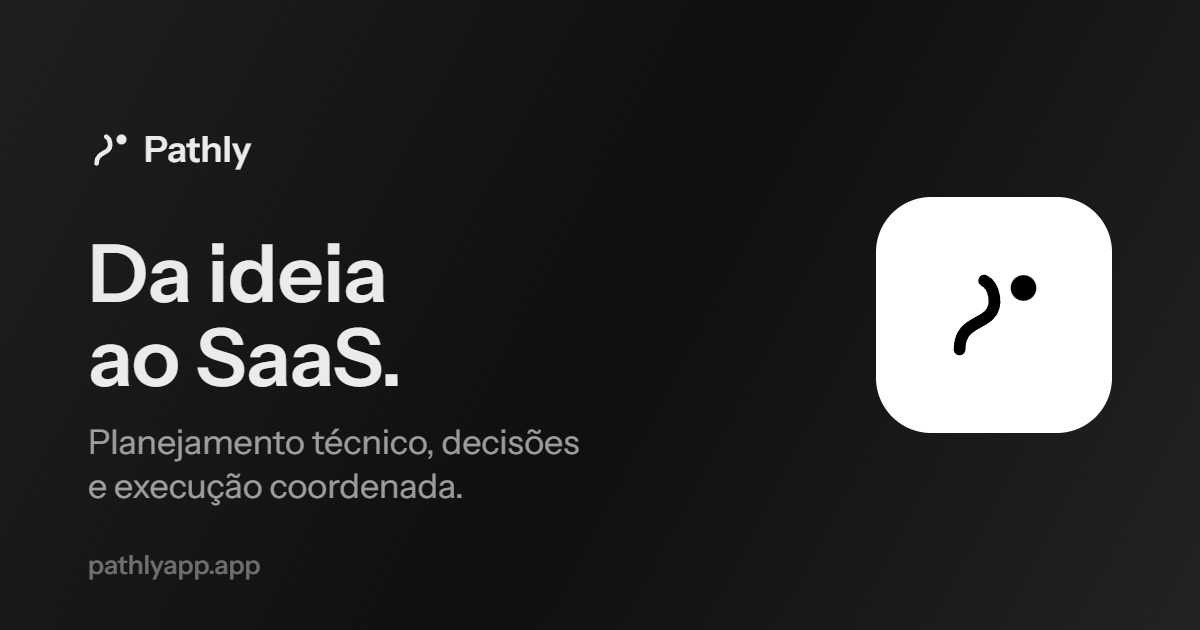
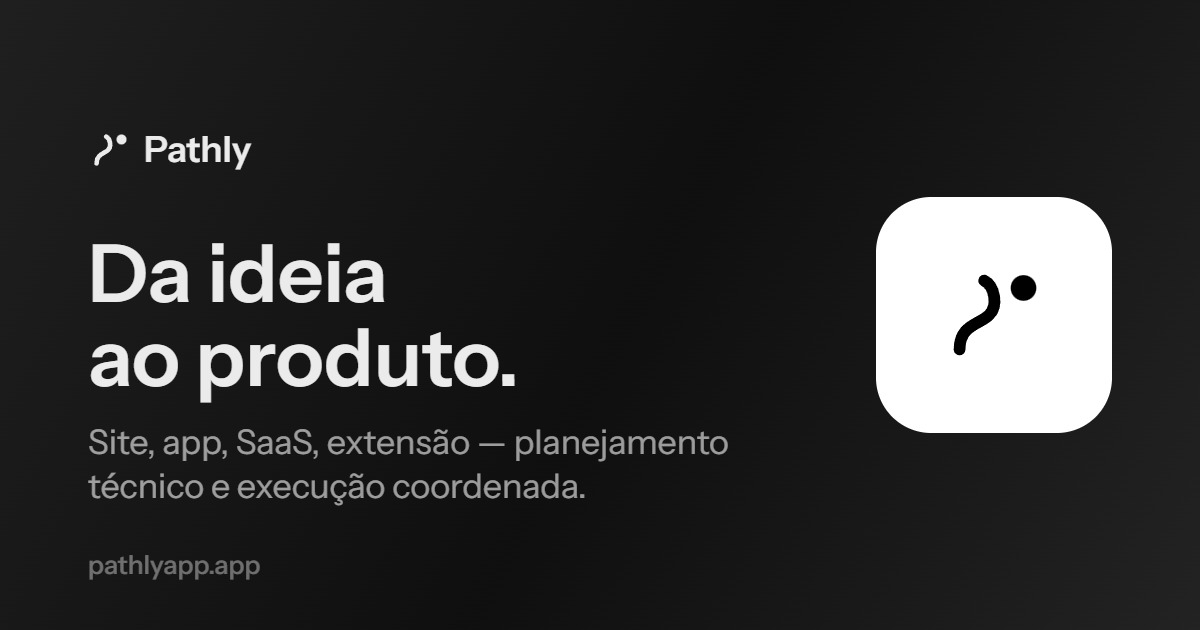
O resto dos textos, e a imagem de compartilhamento com a manchete nova
Fecha o reposicionamento: nenhuma tela diz mais que o Pathly e so para SaaS.

## Os oito que faltavam

`app.planos`, `app.blueprints`, `cadastro` (meta e subtitulo), `project-chat` (cabecalho e a
saudacao "Vamos construir este SaaS" -> "Vamos construir isto"), e dois comentarios de modulo em
`blueprint/contrato.ts` e `hub/sessao/contrato.ts` — comentario tambem e texto, e um que diz "o
Pathly entrega um SaaS" desorienta quem le o codigo daqui a seis meses.

## Onde "SaaS" FICA, de proposito

Tres lugares, e nos tres a palavra esta certa:

- `index.tsx` e `__root.tsx`: "site, app, SaaS, extensao" — ali SaaS e **uma** das opcoes da lista,
  e tirar empobreceria a frase.
- `respostas.ts`: documenta o valor antigo gravado no banco (`tipo: "saas"`) e da SaaS como
  exemplo do que e uma aplicacao web.

E `asaas` em `regras.ts` continua intocado: e o provedor de pagamento brasileiro.

## A imagem

`og.jpg` regerada com "Da ideia ao produto." e o subtitulo passando a enumerar as plataformas:
"Site, app, SaaS, extensao — planejamento tecnico e execucao coordenada."

Mesma receita da anterior: gradiente em oklch do proprio app, Instrument Sans carregada antes de
desenhar, o icone do app ancorando a direita, JPEG em 0.92. 51 KB.

Conferida lendo o arquivo **gravado**, nao o que ficou em memoria: decodifica, 1200x630,
image/jpeg. As meta tags ja apontavam para `og.jpg` e o `og:image:alt` ja tinha sido corrigido
junto com a landing.

## Verificacao
[…]

Changed region(s): [[0.1542, 0.5127, 0.4317, 0.6333], [0.0617, 0.754, 0.4933, 0.8143], [0.0617, 0.6635, 0.6167, 0.7238]]

diff --git a/src/components/pathly/project-chat.tsx b/src/components/pathly/project-chat.tsx
@@ -184,7 +184,7 @@ export function ProjectChat({
           <div className="min-w-0">
             <h1 className="truncate text-sm font-semibold">{estado.nomeProjeto || "Projeto"}</h1>
             <p className="truncate text-xs text-muted-foreground">
-              Planejamento e execução do seu SaaS
+              Planejamento e execução do seu produto
             </p>
           </div>
         </div>
@@ -226,7 +226,7 @@ export function ProjectChat({
                     className="mt-4 justify-center font-display text-2xl font-semibold"
                     stagger={0.07}
                   >
-                    Vamos construir este SaaS
+                    Vamos construir isto
                   </WordsStagger>
                   <WordsStagger
                     className="mx-auto mt-2 max-w-lg justify-center text-sm leading-relaxed text-muted-foreground"

diff --git a/src/routes/cadastro.tsx b/src/routes/cadastro.tsx
@@ -13,7 +13,7 @@ export const Route = createFileRoute("/cadastro")({
       { title: "Criar conta na Pathly" },
       {
         name: "description",
-        content: "Crie sua conta e transforme uma ideia em um SaaS planejado e executável.",
+        content: "Crie sua conta e transforme uma ideia em um produto planejado e executável.",
       },
       { property: "og:title", content: "Criar conta na Pathly" },
       {
@@ -79,7 +79,7 @@ function SignupPage() {
   return (
     <AuthLayout
       title="Criar meu workspace"
-      subtitle="Descreva seu SaaS e comece com um plano técnico organizado."
+      subtitle="Conte sua ideia e comece com um plano técnico organizado."
     >
       <form className="space-y-4" onSubmit={handleSubmit}>
         {error && <AuthError message={error} />}

diff --git a/src/lib/hub/sessao/contrato.ts b/src/lib/hub/sessao/contrato.ts
@@ -14,7 +14,7 @@ import type { AiDevelopmentProvider } from "../ia/contrato";
  * ferramentas rodam na máquina de quem usa, e nenhuma nuvem alcança `localhost`. Um produto que
  * prometesse conduzir a execução estaria mentindo em três de quatro casos.
  *
- * O que sobra é mais valioso do que parece. A diferença entre alguém que constrói um SaaS em três
+ * O que sobra é mais valioso do que parece. A diferença entre alguém que constrói um produto em três
  * meses e alguém que desiste quase nunca é a ferramenta: é perder o fio. Esquecer por que aquela
  * decisão foi tomada, refazer a tentativa que já falhou, entregar metade de uma etapa e começar
  * outra. A sessão é o fio.

diff --git a/src/lib/blueprint/contrato.ts b/src/lib/blueprint/contrato.ts
@@ -1,7 +1,7 @@
 /**
  * Contrato do Blueprint — o plano técnico completo de um projeto.
  *
- * O Blueprint é o que o Pathly entrega: a pessoa escreve "quero criar um SaaS de gestão de
+ * O Blueprint é o que o Pathly entrega: a pessoa escreve "quero criar um app de gestão de
  * academias" e recebe de volta problema, público, funcionalidades, stack, modelo de dados,
  * arquitetura, riscos e a trilha de execução.
  *

diff --git a/src/routes/app.blueprints.tsx b/src/routes/app.blueprints.tsx
@@ -52,7 +52,7 @@ function TelaProjetos() {
     <div className="space-y-6">
       <PageHeader
         title="Projetos"
-        subtitle="Cada SaaS reúne conversa, decisões, plano técnico e execução"
+        subtitle="Cada projeto reúne conversa, decisões, plano técnico e execução"
         action={
           lista.estado === "pronta" && lista.projetos.length > 0 && !abrindo ? (
             <Chip tone="primary">

diff --git a/src/routes/app.planos.tsx b/src/routes/app.planos.tsx
@@ -106,7 +106,7 @@ function CheckoutPathly({
             </h1>
             <p className="mt-4 max-w-lg text-base leading-relaxed text-muted-foreground sm:text-lg">
               Planeje produtos completos, mantenha decisões no contexto e coordene a execução dos
-              seus SaaS.
+              seus projetos.
             </p>
 
             <div className="mt-8 grid gap-3 sm:grid-cols-2">
